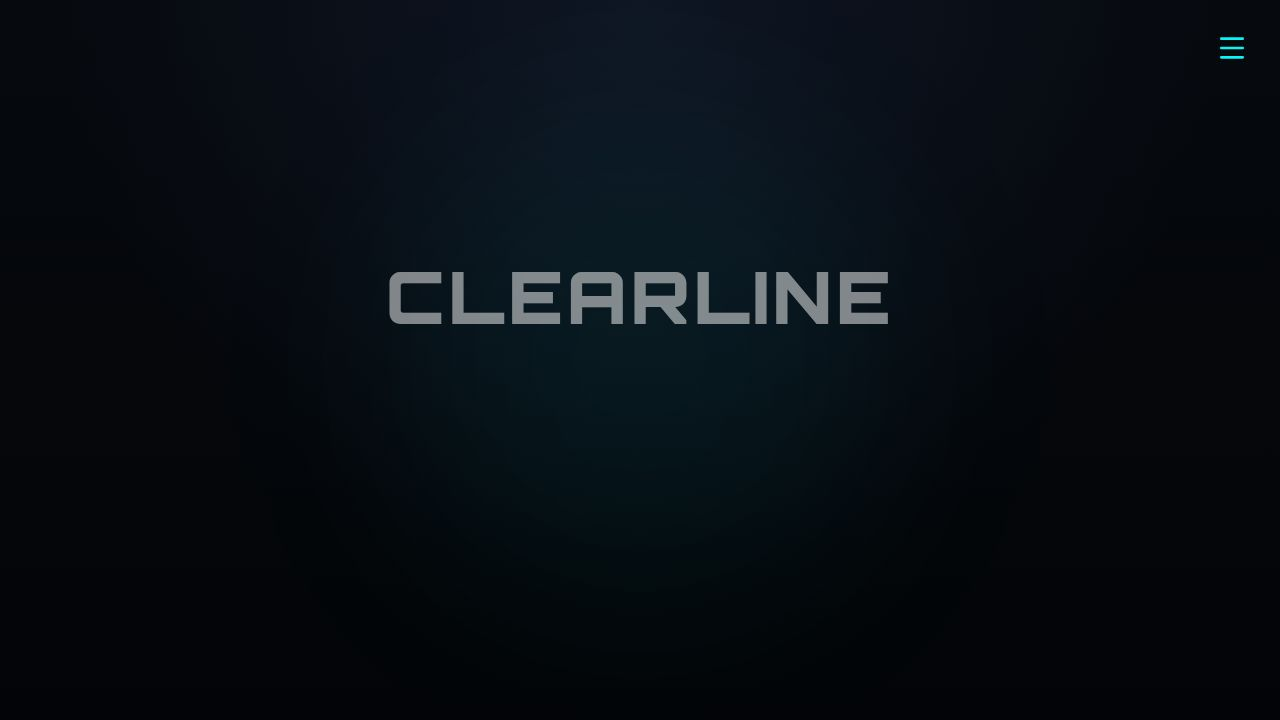
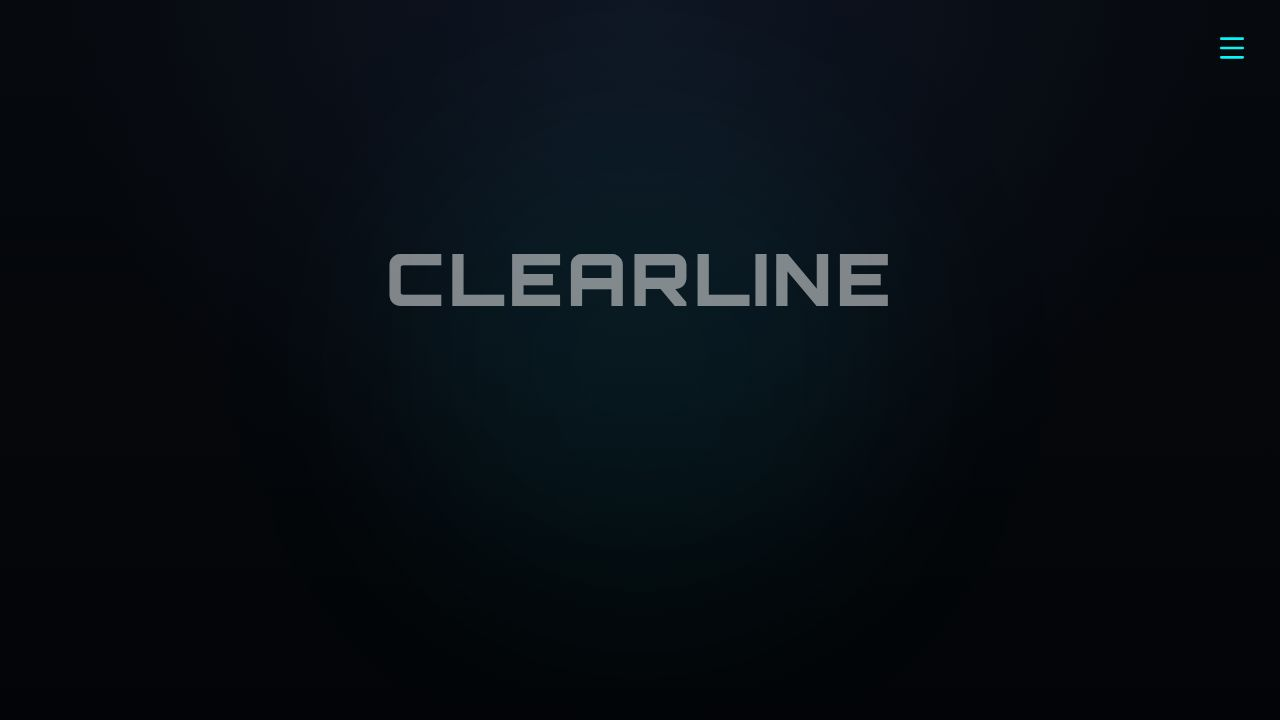
Refine website elements and content for a cleaner, more detailed user experience
Update styling for navigation links, expand page content with practical details, replace CTA button with an icon, adjust tool box sizes, and enhance contact form guidance.

Replit-Commit-Author: Agent
Replit-Commit-Session-Id: 6d4273ff-a048-4f6d-a1d6-34fd1fb17845
Replit-Commit-Checkpoint-Type: full_checkpoint
Replit-Commit-Event-Id: 3564a974-de74-476a-934c-aed7202c368d
Replit-Commit-Screenshot-Url: https://storage.googleapis.com/screenshot-production-us-central1/20ae1760-0e4e-4f38-8ad9-d80caa587753/6d4273ff-a048-4f6d-a1d6-34fd1fb17845/mNrZmf2
Replit-Helium-Checkpoint-Created: true

Changed region(s): [[0.2812, 0.3361, 0.7188, 0.4583]]

diff --git a/client/src/pages/Systems.tsx b/client/src/pages/Systems.tsx
@@ -16,47 +16,47 @@ export default function Systems() {
     { 
       name: "Microsoft 365", 
       icon: Grid, 
-      desc: "The backbone of modern enterprise collaboration." 
+      desc: "We configure the full M365 suite to create a unified digital workspace, ensuring your teams have secure, anytime access to the tools they need to collaborate effectively." 
     },
     { 
       name: "Power BI", 
       icon: BarChart3, 
-      desc: "Transforming raw data into actionable visual insights." 
+      desc: "We turn your static spreadsheets into dynamic, interactive dashboards that provide real-time visibility into your KPIs, enabling data-driven decision making." 
     },
     { 
       name: "Power Automate", 
       icon: Bot, 
-      desc: "Automating repetitive tasks to save valuable time." 
+      desc: "We build background workflows that handle your repetitive administrative tasks—approvals, notifications, and data entry—freeing your staff for high-value work." 
     }, 
     { 
       name: "Power Apps", 
       icon: AppWindow, 
-      desc: "Custom low-code applications built for your specific needs." 
+      desc: "We develop custom, low-code applications tailored exactly to your unique business functions, replacing rigid off-the-shelf software with precision tools." 
     },
     { 
       name: "Excel", 
       icon: FileSpreadsheet, 
-      desc: "Advanced modelling and data management solutions." 
+      desc: "We advance your Excel capabilities beyond simple tables, implementing complex data modelling, automated macros, and error-proof templates for financial analysis." 
     },
     { 
       name: "SharePoint", 
       icon: Share2, 
-      desc: "Secure document management and intranet portals." 
+      desc: "We structure secure, organized document management systems and intranets that act as a single source of truth for your organization's knowledge base." 
     }, 
     { 
       name: "Workflow Automation", 
       icon: Workflow, 
-      desc: "Streamlining complex business logic and approvals." 
+      desc: "We map and digitize complex multi-step logic, ensuring compliance and consistency across your operations without manual oversight." 
     },
     { 
       name: "Process Mapping", 
       icon: GitMerge, 
-      desc: "Visualizing and optimizing operational flows." 
+      desc: "We visualize your end-to-end operations to identify bottlenecks and inefficiencies before implementing technical solutions." 
     },
     { 
       name: "Reporting Dashboards", 
       icon: LayoutDashboard, 
-      desc: "Real-time KPIs tracking performance at a glance." 
+      desc: "We centralize your performance metrics into clear, visual command centers that allow leadership to track health and progress at a glance." 
     }
   ];
 
@@ -71,7 +71,7 @@ export default function Systems() {
           Systems <span className="text-primary">&</span> Tools
         </h2>
 
-        <div className="grid grid-cols-1 md:grid-cols-2 lg:grid-cols-3 gap-6 mb-16">
+        <div className="grid grid-cols-1 md:grid-cols-2 lg:grid-cols-3 gap-4 mb-16">
           {tools.map((tool, index) => (
             <motion.div
               key={tool.name}
@@ -79,16 +79,16 @@ export default function Systems() {
               animate={{ opacity: 1, y: 0 }}
               transition={{ delay: index * 0.05 }}
               whileHover={{ y: -5, borderColor: "hsl(var(--primary))" }}
-              className="bg-white/5 border border-white/10 p-6 rounded-lg relative overflow-hidden group cursor-default transition-all duration-300 hover:bg-white/10 hover:shadow-[0_0_15px_rgba(0,243,255,0.1)]"
+              className="bg-white/5 border border-white/10 p-5 rounded-lg relative overflow-hidden group cursor-default transition-all duration-300 hover:bg-white/10 hover:shadow-[0_0_15px_rgba(0,243,255,0.1)]"
               data-testid={`card-tool-${tool.name.replace(/\s+/g, '-').toLowerCase()}`}
             >
-              <div className="flex items-start gap-4">
-                <div className="p-3 rounded-md bg-white/5 text-primary group-hover:bg-primary/20 transition-colors">
-                  <tool.icon size={24} />
+              <div className="flex flex-col items-start gap-3">
+                <div className="p-2.5 rounded-md bg-white/5 text-primary group-hover:bg-primary/20 transition-colors">
+                  <tool.icon size={20} />
                 </div>
                 <div>
-                  <h3 className="text-lg font-display font-semibold mb-2 group-hover:text-primary transition-colors">{tool.name}</h3>
-                  <p className="text-sm text-white/60 font-sans leading-relaxed">{tool.desc}</p>
+                  <h3 className="text-base font-display font-semibold mb-2 group-hover:text-primary transition-colors">{tool.name}</h3>
+                  <p className="text-xs text-white/60 font-sans leading-relaxed">{tool.desc}</p>
                 </div>
               </div>
             </motion.div>

diff --git a/client/src/pages/About.tsx b/client/src/pages/About.tsx
@@ -49,18 +49,13 @@ export default function About() {
             About <span className="text-primary">Clearline</span>
           </h2>
           
-          <p className="text-lg text-white/70 font-sans leading-relaxed max-w-3xl ml-7">
-            We don't just build systems; we engineer future-proof architectures that evolve with your business. 
-            Our approach merges technical precision with creative problem-solving, ensuring every solution is purely bespoke.
-          </p>
-
-          <div className="pt-4 ml-7">
-            <div className="flex gap-1 text-primary mb-2">
-              {[1, 2, 3, 4, 5].map((star) => (
-                <Star key={star} fill="currentColor" className="w-4 h-4 drop-shadow-[0_0_5px_rgba(0,243,255,0.5)]" />
-              ))}
-            </div>
-            <p className="text-xs text-white/40 font-mono tracking-widest">5-STAR RATED EXCELLENCE</p>
+          <div className="max-w-4xl ml-7 space-y-4">
+            <p className="text-base text-white/70 font-sans leading-relaxed">
+              We engineer intelligent business architectures that eliminate operational friction. By auditing your existing workflows, we identify bottlenecks and replace manual redundancy with automated precision.
+            </p>
+            <p className="text-base text-white/70 font-sans leading-relaxed">
+              Our focus is purely practical: connecting your fragmented data sources, automating repetitive tasks, and building scalable systems that allow your team to focus on high-value work rather than administration.
+            </p>
           </div>
         </div>
 
@@ -79,6 +74,15 @@ export default function About() {
               <p className="text-white/60 font-sans text-sm leading-relaxed">{step.desc}</p>
             </motion.div>
           ))}
+        </div>
+
+        <div className="mt-20 border-t border-white/10 pt-12 flex flex-col items-center justify-center text-center opacity-60 hover:opacity-100 transition-opacity duration-500">
+          <div className="flex gap-1 text-primary mb-3">
+            {[1, 2, 3, 4, 5].map((star) => (
+              <Star key={star} fill="currentColor" className="w-4 h-4 drop-shadow-[0_0_5px_rgba(0,243,255,0.5)]" />
+            ))}
+          </div>
+          <p className="text-xs text-white/40 font-mono tracking-widest uppercase">Trusted by industry leaders for excellence in system design</p>
         </div>
       </motion.section>
     </div>

diff --git a/client/src/pages/Contact.tsx b/client/src/pages/Contact.tsx
@@ -28,9 +28,8 @@ export default function Contact() {
           animate={{ opacity: 1, x: 0 }}
           className="space-y-10"
         >
-          <div>
-            <h2 className="text-4xl md:text-6xl font-display font-bold mb-2">Get in</h2>
-            <h2 className="text-4xl md:text-6xl font-display font-bold text-primary text-glow">Touch</h2>
+          <div className="whitespace-nowrap">
+            <h2 className="text-4xl md:text-6xl font-display font-bold mb-2">Get in <span className="text-primary text-glow">Touch</span></h2>
           </div>
 
           <div className="space-y-6 font-sans text-base">
@@ -90,7 +89,12 @@ export default function Contact() {
           transition={{ delay: 0.2 }}
           className="bg-white/5 border border-white/10 p-8 rounded-lg backdrop-blur-sm"
         >
-          <h3 className="text-2xl font-display font-semibold mb-6 text-white/90">Send Message</h3>
+          <div className="mb-8">
+            <h3 className="text-2xl font-display font-semibold text-white/90 mb-2">Send Message</h3>
+            <p className="text-sm text-white/50 font-sans">
+              Tell us about the tasks that slow you down. What inefficiencies are holding your business back?
+            </p>
+          </div>
           <form onSubmit={handleSubmit} className="space-y-5">
             <div className="space-y-2">
               <label htmlFor="name" className="text-sm text-white/60 font-sans">Name</label>

diff --git a/client/src/pages/Home.tsx b/client/src/pages/Home.tsx
@@ -62,15 +62,19 @@ export default function Home() {
           Future Systems Architect
         </motion.p>
 
-        {/* CTA Button */}
+        {/* CTA Arrow */}
         <motion.div
           initial={{ opacity: 0, y: 10 }}
           animate={{ opacity: 1, y: 0 }}
           transition={{ delay: 3.5, duration: 0.8 }}
+          className="mt-8"
         >
           <Link href="/about">
-            <a className="inline-block px-6 py-2 border border-white/20 text-white/60 text-sm hover:text-primary hover:border-primary/50 transition-all duration-300 rounded-sm font-light tracking-wide hover:shadow-[0_0_15px_rgba(0,243,255,0.15)] cursor-pointer">
-              Explore how you can improve your business systems and processes
+            <a className="group flex flex-col items-center gap-2 cursor-pointer transition-all duration-300">
+              <span className="text-white/40 text-xs tracking-widest uppercase group-hover:text-primary transition-colors">Explore</span>
+              <div className="p-3 border border-white/10 rounded-full group-hover:border-primary/50 group-hover:shadow-[0_0_15px_rgba(0,243,255,0.3)] transition-all">
+                <ChevronRight className="w-6 h-6 text-white/60 group-hover:text-primary transition-colors" strokeWidth={2} />
+              </div>
             </a>
           </Link>
         </motion.div>

diff --git a/client/src/components/Navigation.tsx b/client/src/components/Navigation.tsx
@@ -41,7 +41,7 @@ export default function Navigation() {
                 <Link key={item.path} href={item.path}>
                   <a
                     onClick={() => setIsOpen(false)}
-                    className={`text-3xl md:text-4xl font-display uppercase tracking-widest hover:text-primary transition-colors cursor-pointer ${
+                    className={`text-2xl md:text-3xl font-display uppercase tracking-widest hover:text-primary transition-colors cursor-pointer ${
                       location === item.path ? "text-primary text-glow" : "text-white/50"
                     }`}
                     data-testid={`link-nav-${item.name.toLowerCase()}`}